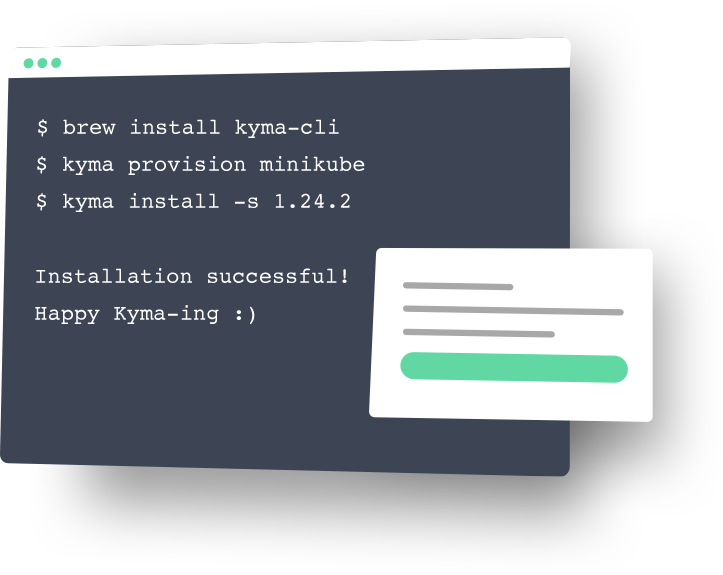
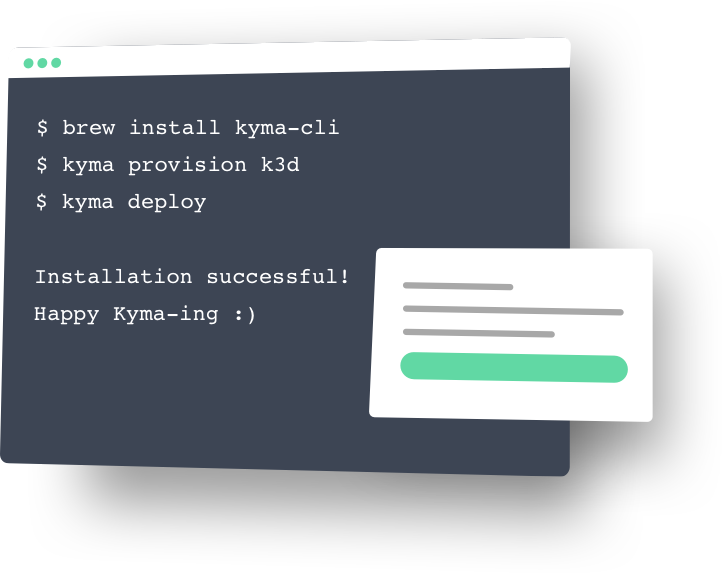
Changing kyma deploy commands

diff --git a/src/views/landingPage/CheckItOut/Termynal/Termynal.tsx b/src/views/landingPage/CheckItOut/Termynal/Termynal.tsx
@@ -4,8 +4,8 @@ import { TermynalStyles } from "./styled";
 export const Termynal: FC = () => (
   <TermynalStyles>
     <div id="termynal" data-termynal={true}>
-      <span data-ty="input">kyma provision minikube</span>
-      <span data-ty="input">kyma install -s 1.24.2</span>
+      <span data-ty="input">kyma provision k3d</span>
+      <span data-ty="input">kyma deploy</span>
     </div>
   </TermynalStyles>
 );
